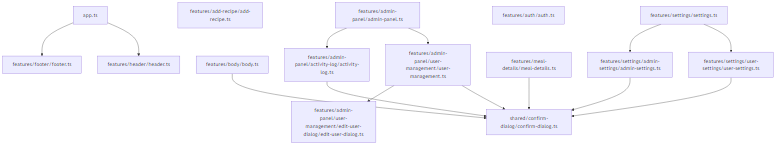
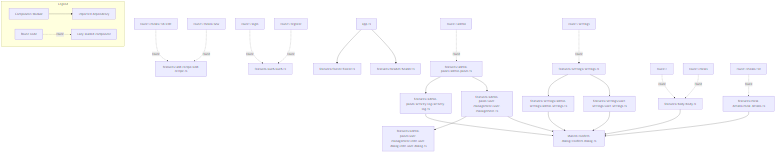
Add CI CD improvements and graph improvements

diff --git a/README.md b/README.md
@@ -1,16 +1,8 @@
 # MealCraft
 
-MealCraft is an Angular 21 recipe app that combines TheMealDB data with local recipes, feedback (votes/tags), and role-based settings.
+Angular 21 recipe app: TheMealDB + local recipes + auth roles + feedback.
 
-## Core features
-
-- Unified recipe list: API + local + optional dummy data.
-- Filtering and sorting: search, cuisine, category, tags, mine-only.
-- Local recipe lifecycle: add, edit, delete (owner-aware permissions).
-- Authentication and roles: `user` / `admin`.
-- Admin tools: data reset, diagnostics, quality pipeline.
-
-## Quick start
+## Start
 
 ```bash
 npm ci
@@ -19,7 +11,7 @@ npm run start
 
 Open `http://localhost:4200/`.
 
-## Useful scripts
+## Scripts
 
 - `npm run build` – production build
 - `npm run test:ci` – tests (CI mode)
@@ -33,15 +25,10 @@ Open `http://localhost:4200/`.
 
 ## CI/CD
 
-Unified pipeline lives in `.github/workflows/pipeline.yml` and includes:
+- Pipeline: `.github/workflows/pipeline.yml`
+- Stages: build, lint, typecheck, audit, knip, tests, coverage, docs sync, deploy
 
-- build, lint, typecheck, security audit
-- knip, architecture graph, bundle size check
-- tests + coverage report
-- auto docs/chart sync on push to `main`
-- GitHub Pages deployment
-
-## Default admin account (dev)
+## Dev admin
 
 - Email: `admin@admin.pl`
 - Password: `admin@admin.pl`
@@ -49,32 +36,22 @@ Unified pipeline lives in `.github/workflows/pipeline.yml` and includes:
 <!-- AUTO-DOCS:START -->
 ## Automated Architecture Docs
 
-This section is auto-generated by CI on every push to `main`.
+This section is auto-generated by CI during each `main` deployment pipeline run.
 
-### Component Dependency Chart
+### Component Tree (Rooted at app.ts)
 
-![Component Dependency Chart](reports/dependency-graph/component-graph.svg)
+![Component Tree](reports/dependency-graph/component-tree.svg)
 
-PNG fallback: [component-graph.png](reports/dependency-graph/component-graph.png)
+PNG fallback: [component-tree.png](reports/dependency-graph/component-tree.png)
 
-### Dependency Graph Artifacts
+### Artifacts
 
 - [Graph summary](reports/dependency-graph/summary.md)
-- [Module graph (Mermaid)](reports/dependency-graph/graph.mmd)
+- [Component tree (Mermaid)](reports/dependency-graph/component-tree.mmd)
 - [Component graph (Mermaid)](reports/dependency-graph/component-graph.mmd)
-- [Module graph (SVG)](reports/dependency-graph/graph.svg)
-
-### CI Quality Steps
-
-- Build
-- Lint
-- Typecheck (static analysis)
-- Security audit
-- Dead code analysis (knip)
-- Architecture graph generation
-- Bundle size check
-- Tests + coverage report
-- GitHub Pages deploy
+- [Module graph (Mermaid)](reports/dependency-graph/graph.mmd)
+- [Component tree (SVG)](reports/dependency-graph/component-tree.svg)
+- [Component graph (SVG)](reports/dependency-graph/component-graph.svg)
 
 ### Coverage Report
 

diff --git a/reports/dependency-graph/summary.md b/reports/dependency-graph/summary.md
@@ -3,8 +3,11 @@
 - Source: `src/app`
 - Modules: 83
 - Edges: 220
-- Components: 15
-- Component edges: 13
+- Components: 24
+- Component edges: 22
+- Tree nodes (reachable from app.ts): 24
+- Tree edges: 23
+- Route edges: 9
 - Circular dependencies: 0
 
 ## Artifacts
@@ -13,6 +16,8 @@
 - `graph.mmd`
 - `component-graph.json`
 - `component-graph.mmd`
+- `component-tree.json`
+- `component-tree.mmd`
 
 ## Circular Dependencies
 
